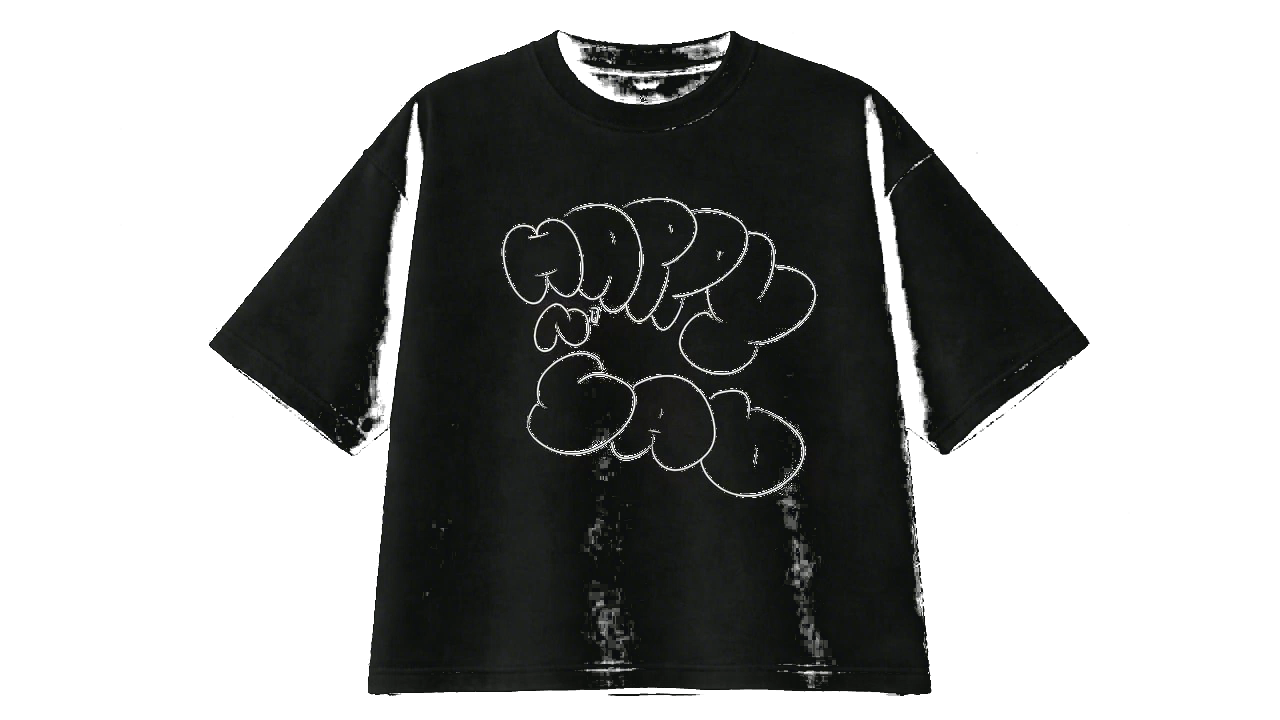
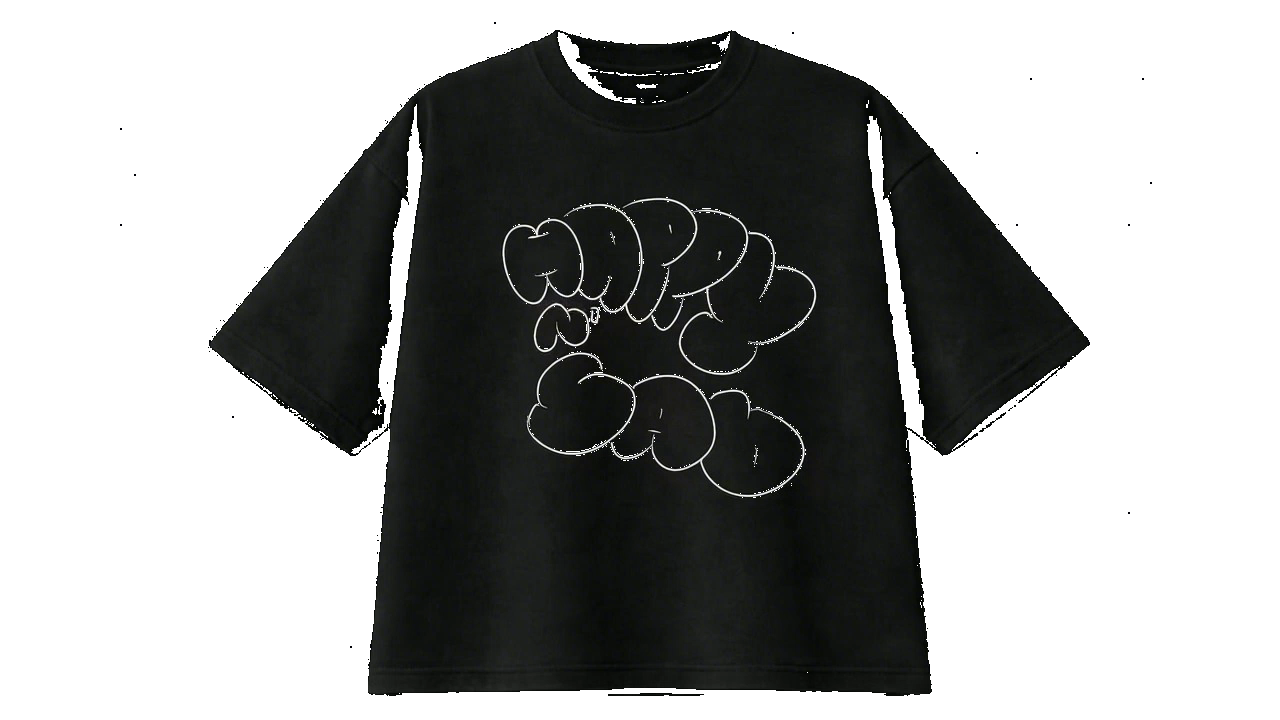
Remove white shadow artifacts from garment edges
Hard cutoff (step) instead of smoothstep in chroma-key shader.
Poster PNGs re-extracted with blend=0 for clean edges.

diff --git a/src/components/VideoGarment.jsx b/src/components/VideoGarment.jsx
@@ -16,7 +16,7 @@ const fragShader = `
   void main() {
     vec4 color = texture2D(videoTexture, vUv);
     float maxC = max(color.r, max(color.g, color.b));
-    float alpha = smoothstep(0.01, 0.025, maxC);
+    float alpha = step(0.018, maxC);
     gl_FragColor = vec4(color.rgb, alpha);
   }
 `
